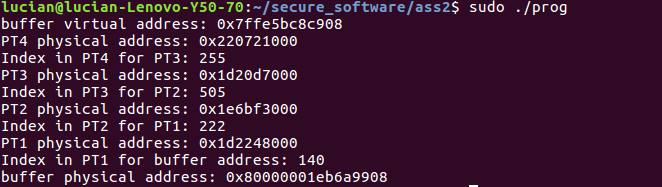
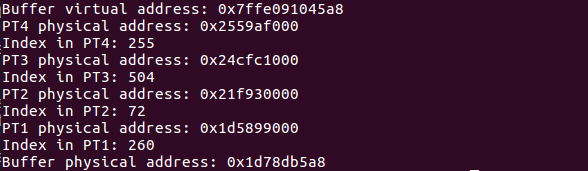
Plots and stuff

Changed region(s): [[0.0, 0.0, 0.8571, 0.9942], [0.7959, 0.9942, 0.8265, 1.0], [0.7041, 0.9942, 0.7347, 1.0]]

diff --git a/ass2/prog.c b/ass2/prog.c
@@ -214,30 +214,34 @@ Page* get_phys_addr(unsigned long buffer_address)
 		return NULL;
 	}
 
-	printf("buffer virtual address: 0x%lx\n", buffer_address);
+	printf("Buffer virtual address: 0x%lx\n", buffer_address);
 
 	// level 4
 	printf("PT4 physical address: 0x%lx\n", physical_addresses[0].address);
 	physical_addresses[0].offset = (buffer_address >> 39) & page_table_offset_mask;
+	printf("Index in PT4: %lu\n", physical_addresses[0].offset);
 	physical_addresses[1].address = get_physical_addr(fd, physical_addresses[0].address, physical_addresses[0].offset);
 
 	// level 3
 	printf("PT3 physical address: 0x%lx\n", physical_addresses[1].address);
 	physical_addresses[1].offset = (buffer_address >> 30) & page_table_offset_mask;
+	printf("Index in PT3: %lu\n", physical_addresses[1].offset);
 	physical_addresses[2].address = get_physical_addr(fd, physical_addresses[1].address, physical_addresses[1].offset);
 
 	// level 2
 	printf("PT2 physical address: 0x%lx\n", physical_addresses[2].address);
 	physical_addresses[2].offset = (buffer_address >> 21) & page_table_offset_mask;
+	printf("Index in PT2: %lu\n", physical_addresses[2].offset);
 	physical_addresses[3].address = get_physical_addr(fd, physical_addresses[2].address, physical_addresses[2].offset);
 
 	// level 1
 	printf("PT1 physical address: 0x%lx\n", physical_addresses[3].address);
 	physical_addresses[3].offset = (buffer_address >> 12) & page_table_offset_mask;
+	printf("Index in PT1: %lu\n", physical_addresses[3].offset);
 	physical_addresses[4].address = get_physical_addr(fd, physical_addresses[3].address, physical_addresses[3].offset);
 
 	physical_addresses[4].offset = buffer_address & frame_offset_mask;
-	printf("buffer physical address: 0x%lx\n", physical_addresses[4].address | physical_addresses[4].offset);
+	printf("Buffer physical address: 0x%lx\n", physical_addresses[4].address | physical_addresses[4].offset);
 
 	return physical_addresses;
 }
@@ -305,12 +309,12 @@ int main(int argc, char* argv[])
 	profile_mem_access(&target, &pte, pages[2].offset, cache_flush_set, cache_flush_set_size, ev_set, ev_set_size, 0, "uncached.txt");
 	profile_mem_access(&target, &pte, pages[2].offset, cache_flush_set, cache_flush_set_size, ev_set, ev_set_size, 1, "hopefully_cached.txt");
 	
-	free((void*)pte);
-	munmap((void*)page_ptr, PAGE_SIZE);
-	munmap((void*) target, target_size);
-	munmap((void*) ev_set, ev_set_size);
-	free(cache_flush_set);
-	free(pages);
+	// free((void*)pte);
+	// munmap((void*)page_ptr, PAGE_SIZE);
+	// munmap((void*) target, target_size);
+	// munmap((void*) ev_set, ev_set_size);
+	// free(cache_flush_set);
+	// free(pages);
 
 	return 0;
 }
